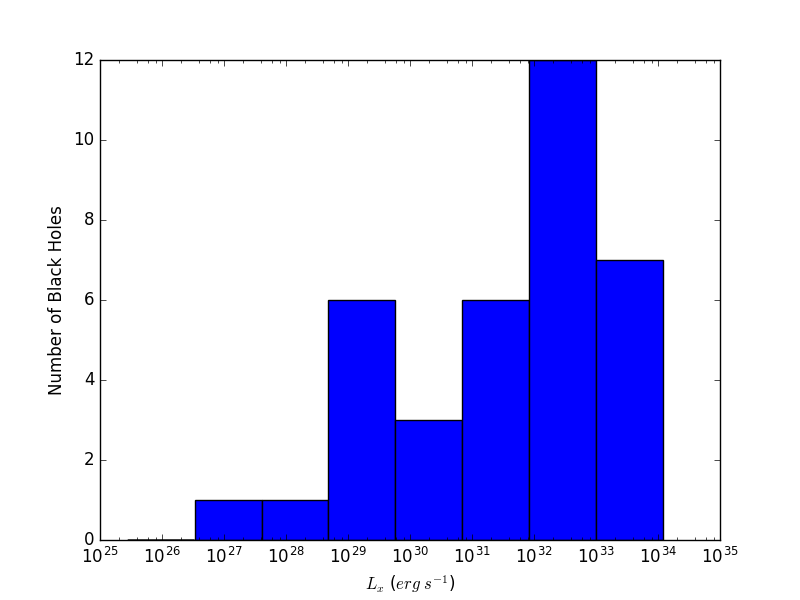
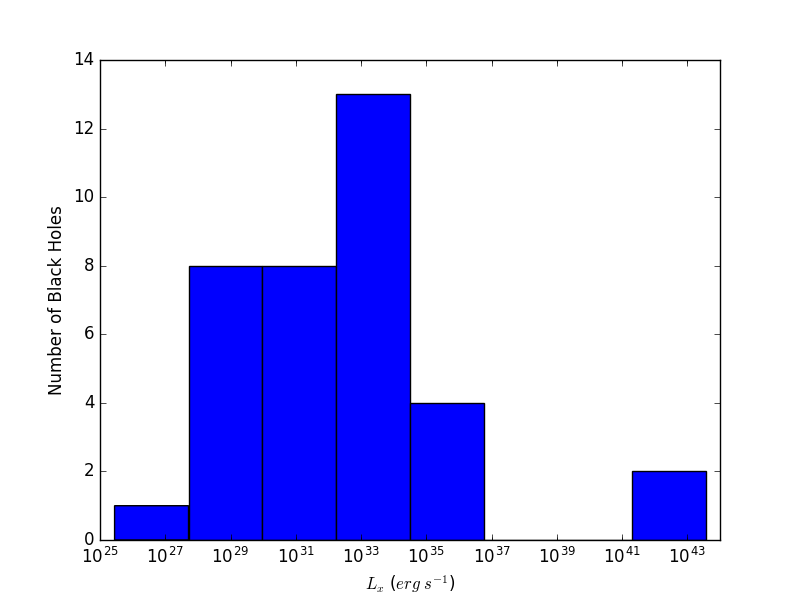
Updated plots.  Added section describing wandering black holes within the influence radius of the central black hole.

diff --git a/paper.tex b/paper.tex
@@ -63,7 +63,7 @@
 
 
 \begin{abstract}
-We perform N-body simulations on 13 galaxies extracted from a cosmological simulation of hierarchical structure formation with total mass in the range $10^{12} \msun < M < 10^{13} \msun$ from $4 \ge z \ge 0$.  We track the dynamical evolution of the orbiting black holes (BHs) around their host central BHs.  Of the 120 orbiting BHs, we find that 50 merge with their host central BHs, 11 are ejected from their respective host galaxies, and 59 are still orbiting at the end of the simulations.  Across all galaxies, 48 BHs are kicked to a higher orbit after close interactions with the central BHs, after which none of them merge with their hosts.  These orbiting BHs should be detectable by their anomalous (not LMXRB) spectra.  The x-ray luminosities of the orbiting massive BHs at z=0 are in the range $10^{23}-10^{37}$ $erg\ s^{-1}$, with median value $10^{29}$ $erg\ s^{-1}$.
+We perform N-body simulations on 11 galaxies extracted from a cosmological simulation of hierarchical structure formation with total mass in the range $10^{12} \msun < M < 10^{13} \msun$ from $4 \ge z \ge 0$.  After mergers, we track the dynamical evolution of the orbiting black holes (BHs) around their host central BHs.  Of the 86 orbiting BHs, we find that 36 merge with their host central BHs, 13 are ejected from their respective host galaxies, and 37 are still orbiting at the end of the simulations.  Across all galaxies, 33 BHs are kicked to a higher orbit after close interactions with the central BHs, after which only one of them merged with their hosts.  These orbiting BHs should be detectable by their anomalous (not LMXRB) spectra.  The x-ray luminosities of the orbiting massive BHs at z=0 are in the range $10^{25}-10^{43}$ $erg\ s^{-1}$, with median value $10^{32}$ $erg\ s^{-1}$.
 \end{abstract}
 
 
@@ -79,9 +79,9 @@ There is no "final parsec problem," and the opposite problem of too many BH merg
 
 How common are mergers of massive black holes?  For the galaxies themselves we know that minor mergers are frequent from the observed (\citet{2010ApJ...718L..73V}, \citet{2008ApJ...677L...5V}, \citet{2019MNRAS.484..595M}) evolution of the size and mass of these systems, but assuming that all galaxy mergers lead to SMBH mergers overpredicts the observations of gravitational waves from the pulsar timing arrays (PTAs) (\citet{2008MNRAS.390..192S}, \citet{2009MNRAS.394.2255S}, \citet{2013MNRAS.433L...1S}, \citet{2014ApJ...789..156M}, \citet{2015ApJ...799..178K}, \citet{2018ApJ...856...42S}, \citet{2018arXiv180403143I}).  However, we do not often see multiple SMBHs at the centers of massive ellipticals.  So, what does happen?  One paper (\citet{2018MNRAS.473.3410R}) has indicated that dynamical interactions among multiple orbiting black holes, which will eject a non-negligible fraction of the mass, may solve this problem.  The present paper also addresses this purported dynamical solution, focusing attention on the large fraction of lower mass black holes that remain to be detected as they orbit in massive galaxies.  What we argue in this paper is that, as a result of the N-body interactions among the infalling black holes, some are ejected, some remain in extended orbits and some (the few most massive ones) do in fact merge, but these do not exceed the PTA limits, and the orbiting ones should be detectable via their ability to accrete gas and emit radiation.
 
-Here we look at the merger history of 13 exemplary galaxies across the galaxy mass spectrum extracted from a cosmological simulation of hierarchical structure formation. We investigate how, after merging with incoming galaxies, SMBHs sink into the cores of the hosts and interact with the resident black hole. We show that gravitational interactions of multiple SMBHs are most probable in high-mass galaxies with total mass $10^{12} \msun < M < 10^{13} \msun$. Galaxies with lower masses have too few mergers with SMBH hosting galaxies. Galaxies with higher masses are more extended, making dynamical friction processes less efficient and hence failing to drive SMBHs into the host galaxy core.
+Here we look at the merger history of 11 exemplary galaxies across the galaxy mass spectrum extracted from a cosmological simulation of hierarchical structure formation. We investigate how, after merging with incoming galaxies, SMBHs sink into the cores of the hosts and interact with the resident black hole. We show that gravitational interactions of multiple SMBHs are most probable in high-mass galaxies with total mass $10^{12} \msun < M < 10^{13} \msun$. Galaxies with lower masses have too few mergers with SMBH hosting galaxies. Galaxies with higher masses are more extended, making dynamical friction processes less efficient and hence failing to drive SMBHs into the host galaxy core.
 
-This paper is organized as follows: in Section \ref{sec:methods} we describe the cosmological simulations from which we use the merger history to set up our idealized numerical simulations. We present the few-body integration code, \textsc{AR-Chain} that we used for our simulations of SMBH dynamics, and the modifications we made to this code in order to deal with a host galaxy's gravitational potential. In Section \ref{sec:results}, we show the results of our XX exemplary simulations of galaxies growing with time and acquiring new SMBHs. We analyze how the SMBHs spiral into the core of their new host galaxies due to dynamical friction, and how interactions with the host black hole and other orbiting BHs leads to near-ejections or mergers. We then estimate the X-ray luminosities expected of the orbiting black holes.  The final Section \ref{sec:conclusions} contains a discussion of the results and our conclusions.
+This paper is organized as follows: in Section \ref{sec:methods} we describe the cosmological simulations from which we use the merger history to set up our idealized numerical simulations. We present the few-body integration code, \textsc{AR-Chain} that we used for our simulations of SMBH dynamics, and the modifications we made to this code in order to deal with a host galaxy's gravitational potential. In Section \ref{sec:results}, we show the results of our 11 exemplary simulations of galaxies growing with time and acquiring new SMBHs. We analyze how the SMBHs spiral into the core of their new host galaxies due to dynamical friction, and how interactions with the host black hole and other orbiting BHs leads to near-ejections or mergers. We then estimate the X-ray luminosities expected of the orbiting black holes.  The final Section \ref{sec:conclusions} contains a discussion of the results and our conclusions.
 
 
 \section{Methods}\label{sec:methods}
@@ -255,7 +255,7 @@ Here we review the primary results of our simulations, focusing on the various i
 \subsubsection{Overview of Results}\label{sec:results_overview}
 Figure \ref{fig:meosmbh} shows the distribution of merged, ejected and orbiting black holes across all galaxy simulations as a function of guest black hole mass.
 
-Of the 86 SMBHs used for the simulations, 37 black holes merged with their respective host black hole within a Hubble time, 42 remained orbiting at the end of the simulations, and 7 were ejected from their galaxies as a result of sufficiently large kicks due to three-body interactions with the host and other black holes.
+Of the 86 SMBHs used for the simulations, 36 black holes merged with their respective host black hole within a Hubble time, 37 remained orbiting at the end of the simulations, and 13 were ejected from their galaxies as a result of sufficiently large kicks due to three-body interactions with the host and other black holes.
 
 Given the log distribution of masses, one can see the general trend of larger mass BHs ($\gtrapprox\, 10^7\, M_{\odot}$) tending to merge with their respective host BH, while lower mass BHs continue to wander at $z=0$.  However, there is some overlap with some BHs greater than $10^7\, M_{\odot}$ still orbiting and those less than $10^7\, M_{\odot}$ having merged.
 
@@ -265,7 +265,7 @@ The tendency of larger mass black holes to merge with their host can perhaps be 
 In figure \ref{fig:time_to_merge} we present the time it took for the merging guest black holes to merge with their host.  As can be seen in the plot, although there is a fair amount of variation, the general trend is a decreasing time to merge as orbiting black hole mass increases.
 
 \subsubsection{Kicked, Ejected and Orbiting Black Holes}\label{sec:kicked_orbiting}
-Of the 34 orbiting black holes at $z=0$, all but 8 of them were kicked to higher orbits at some point in their traversal of their host galaxy.  If one counts the 7 ejected black holes, then of the 41 SMBHs that had not eventually merged with their host, 33 of them were kicked out of the galactic core as a result of three-body interactions.  If they didn't merge, it wasn't for a lack of effort.
+Of the 37 orbiting black holes at $z=0$, 18 of them were kicked to higher orbits at some point in their traversal of their host galaxy.  If one counts the 13 ejected black holes, then of the 50 SMBHs that had not eventually merged with their host, 32 of them were kicked out of the galactic core as a result of three-body interactions.  If they didn't merge, it wasn't for a lack of effort.
 
 Figure \ref{fig:kicked_stats} shows the mass distribution of kicked and not-kicked black holes, including those that merged and those that did not merge.  The vast majority of larger SMBHs ($\gtrapprox\, 10^7\, M_{\odot}$) were not kicked to higher orbits nor ejected from their galaxies, which at least partly explains why most of the merged SMBHs are in the greater mass range.  In contrast, most of the SMBHs below $10^7\, M_{\odot}$ are kicked (with a few of them being ejected).  In our simulations, no black holes that are kicked to higher orbits ever returned to merge with their central host SMBH.
 
@@ -342,7 +342,7 @@ Central gas density, ${\rho}_0$ was also fitted from Table 3 of \citet{2018ApJ..
 \end{equation}
 The core radius of the gas model, ${r_c}$ is:
 \begin{equation}
-    r_c = 10^{2.1*log(\sigma) - 5.3} \text{  cm}.
+    r_c = 10^{2.1*log(\sigma) - 5.3} \text{  kpc}.
 \end{equation}
 Local gas density ${\rho}$ is obtained from the isothermal beta model [ADD REFERENCE]:
 \begin{equation} \label{beta_model}
@@ -351,13 +351,13 @@ Local gas density ${\rho}$ is obtained from the isothermal beta model [ADD REFER
 
 Gas sound speed, $c_s$, was obtained from:
 \begin{equation}
-    c_s = \sqrt{1.67T_x/m_p} \text{  km s}^{-1},
+    C_s = \sqrt{1.67T_x/m_p} \text{  km s}^{-1},
 \end{equation}
 where $m_p$ is the proton mass.
 
 The net black hole mass accretion rate is approximated by \citet{2018MNRAS.476.1412I} and \citet{2019arXiv190202349I}:
 \begin{equation}
-    \dot{M}_{acc} = \frac{4{\pi}G^2M^2\rho}{(c_s^2+v^2)^{3/2}} \frac{c_s^2+v^2}{c^2} \text{  M}_\odot \text{ Myr}^{-1},
+    \dot{M}_{acc} = \frac{4{\pi}G^2M^2\rho}{(C_s^2+v^2)^{3/2}} \text{  M}_\odot \text{ Myr}^{-1},
 \end{equation}
 where M is black hole mass, G is the gravitational constant, and v is the black hole velocity.
 
@@ -392,6 +392,27 @@ The Eddington limit is defined as:
 \includegraphics[width=0.5\textwidth]{plots/"Final Luminosities using Kohei factor".png}
 \caption{Xray Luminosity Distribution of Orbiting BHs at z=0.}
 \label{fig:ldobhs}
+\end{center}
+\end{figure}
+
+
+\subsection{Central Black Hole Influence}
+Within the influence radius of the central black hole, which is defined as the radius at which the total mass of the galaxy within that radius (stars + dark matter) equals the mass of the central black hole, the gas density is much higher than otherwise (NEED REFERENCES?).  {WHAT DO WE SAY ABOUT THE VELOCITY FOLLOWING THE KEPLER PROFILE WITHIN THE INFLUENCE RADIUS?}.  Starting with the equation for hydrostatic equilibrium, 
+\begin{equation}
+    C_{s}^2\frac{dln\rho}{dr}= -\frac{GM(r)}{r^2},
+\end{equation}
+we can integrate with respect to r, leading to 
+\begin{equation}
+    ln\frac{\rho}{\rho_1} = \frac{GM}{C_{s}^2}\left(\frac{1}{r} - \frac{1}{r_1}\right),
+\end{equation}
+where $\rho$ is the gas density at the location of the wandering black hole, $\rho_1$ is the density at the radius where the central black hole mass equals the galaxy mass, $r$ is the distance of the wandering black hole from the center, and $r_1$ is the radius where the central black hole mass equals the galaxy mass.
+
+Figure \ref{fig:wui} shows the difference in luminosity when taking into account the influence of the central black hole for the wandering black holes that were within the influence radius.  In all cases, the final luminosity is higher than the original luminosity.
+\begin{figure}[H]
+\begin{center}
+\includegraphics[width=0.5\textwidth]{plots/"Comparison of L_x versus radius with and without BH Influence".png}
+\caption{Difference in x-ray luminosity of wandering black holes within the influence radius of the central black hole.  Red dots are the originally calculated luminosity, not taking the CBH influence into account.  Green dots are the final luminosities, taking the central BH influence into account.}
+\label{fig:wui}
 \end{center}
 \end{figure}
 
